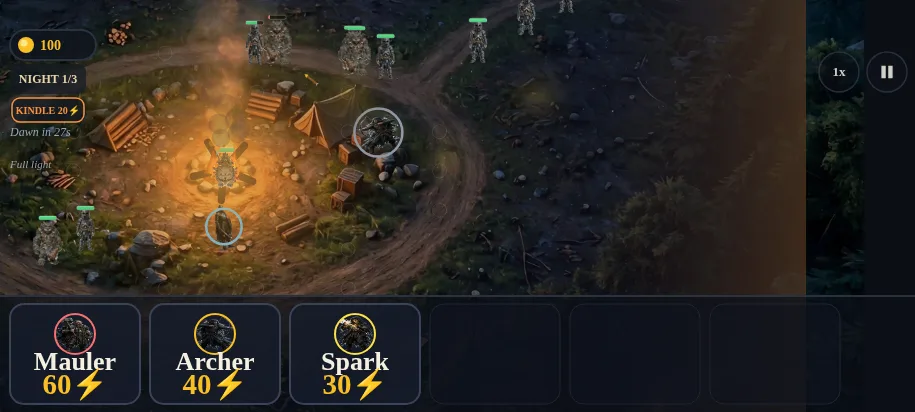
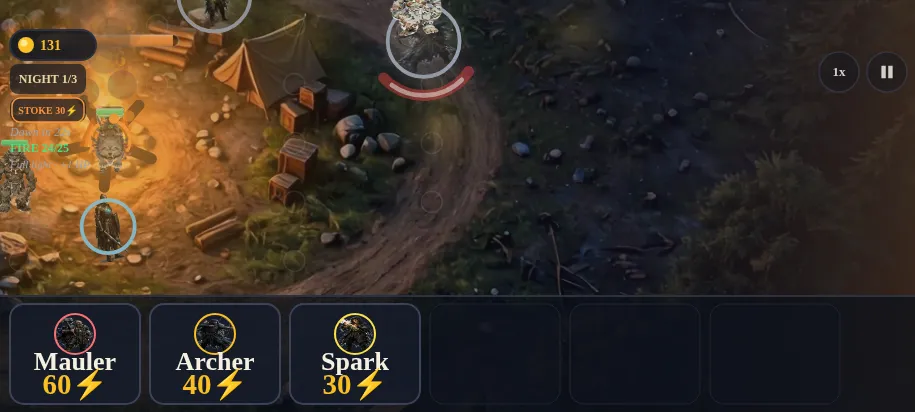
Hollowreign: real L1 + L2 gameplay shots; remove camera pill site-wide
- Top frame: Level 2 (Dark Forest) re-captured at a dense fight moment -
  enemy ON the campfire, Warden + guardians engaged, damage numbers
  visible (first capture read as a quiet camp).
- Bottom frame: saga map replaced with a real Level 1 (Vault Keep)
  wave-1 battle - enemies on the torch-lit road, guardian engaged,
  damage numbers visible. Frame stays portrait: the vault chapter is
  portrait-only in the game (rotate gate), so portrait is the honest
  framing, not a letterbox.
- Dan: no black camera pill on any phone - .phone::after and
  .phone.land::after rules deleted site-wide; all 11 phone frames show
  images edge to edge inside the bezel.
- SPEC.md 3.6 + media budget updated; hr-saga.webp removed.

diff --git a/index.html b/index.html
@@ -132,13 +132,11 @@ h1,h2,h3,.d{font-family:var(--font-d);font-weight:800;letter-spacing:-.03em;line
 .phone:nth-child(2){margin-top:44px}
 .phone img{width:100%;height:100%;object-fit:cover;object-position:top center;border-radius:30px;display:block;background:var(--bg2)}
 .phone video{width:100%;height:100%;object-fit:cover;object-position:top center;border-radius:30px;display:block;background:var(--bg2)}
-.phone::after{content:'';position:absolute;top:23px;left:50%;transform:translateX(-50%);width:96px;height:20px;background:#05070f;border-radius:11px;z-index:2}
 .phone figcaption{position:absolute;left:0;right:0;bottom:-34px;text-align:center;font-size:12.5px;color:var(--mut);letter-spacing:.04em}
 /* landscape phone frame (sideways, for wide gameplay) */
 .phones.stack{flex-direction:column;align-items:center}
 .phone.land{width:min(560px,100%);aspect-ratio:915/412}
 .phone.land img{object-position:center}
-.phone.land::after{top:50%;left:23px;transform:translateY(-50%);width:20px;height:96px}
 /* hollowreign art */
 .keyart{position:relative;border-radius:22px;overflow:hidden;border:1px solid var(--line);box-shadow:var(--shadow)}
 .keyart img{width:100%;height:100%;object-fit:cover;display:block;aspect-ratio:4/4.6;filter:saturate(1.05)}
@@ -341,8 +339,8 @@ footer{border-top:1px solid var(--line);padding:clamp(64px,8vw,110px) 0 40px;pos
           <figcaption>Real gameplay — Level 2, the fire level</figcaption>
         </figure>
         <figure class="phone" data-tilt>
-          <img src="screenshots/hr-saga.webp" alt="Hollowreign saga map — all five chapters beaten, golden route lines across the world" loading="lazy" width="390" height="844">
-          <figcaption>Real gameplay — the saga map</figcaption>
+          <img src="screenshots/hr-level1-battle.webp" alt="Hollowreign Level 1, Vault Keep — guardians holding the torch-lit path against the first wave" loading="lazy" width="412" height="915">
+          <figcaption>Real gameplay — Level 1, Vault Keep</figcaption>
         </figure>
       </div>
     </article>

diff --git a/SPEC.md b/SPEC.md
@@ -83,12 +83,23 @@ product.
    battle in a LANDSCAPE phone frame (.phone.land, 915x412, sideways like
    the battle plays; the .phones stack vertically for this block), Nov 24,
    captured headless from the ship file with the Warden + Mauler/Archer/
-   Spark holding the campfire against the horde; and screenshots/hr-saga.webp
-   — the saga map, all five chapters beaten, Nov 23, portrait frame kept.
-   The modes-screen shot (hr-modes.webp) was replaced Nov 24 — Dan: the two
-   shots were menus, not gameplay. The key art (screenshots/hollowreign-
-   keyart.webp) stays in the repo and is still the OG image, but is no
-   longer on the page.
+   Spark holding the campfire against the horde, an enemy ON the fire and
+   damage numbers visible (re-shot Nov 24 — Dan: the first capture read as
+   a quiet camp, enemies far from the fire); and screenshots/hr-level1-
+   battle.webp — a real Level 1 (Vault Keep) wave-1 battle, Nov 24, enemies
+   on the torch-lit road with HP bars, a guardian engaged and damage
+   numbers (-29/-18/-34) visible. The Level 1 frame stays PORTRAIT: the
+   vault chapter is portrait-only in the game (code-proven rotate gate —
+   landscape shows a rotate screen, waves never play), so a portrait frame
+   is the honest one, not a letterbox. It replaces the saga map (hr-saga.
+   webp, a menu, removed from the repo Nov 24 — Dan: show Level 1 playing,
+   not the map). The modes-screen shot (hr-modes.webp) was replaced Nov 24
+   — Dan: the two shots were menus, not gameplay. Nov 24, Dan: NO black
+   camera pill on any phone frame — the .phone::after and .phone.land::
+   after rules are deleted site-wide; every phone frame (all products)
+   shows its image edge to edge inside the frame bezel. The key art
+   (screenshots/hollowreign-keyart.webp) stays in the repo and is still
+   the OG image, but is no longer on the page.
 7. **#apps — OUTBREAK** (id outbreak): kicker "LIVE NOW ON ROBLOX"; H2
    "OUTBREAK". Copy: zombie survival extraction — cross a massive living
    city, scavenge weapons, fight to the helicopter; die and you respawn as
@@ -268,8 +279,10 @@ right edge. Causes, all fixed and all must stay fixed:
 - Media budget (Nov 24): the eight new visual files total ~630 KB
   (sv-binder 63 KB, sv-scan-result 30 KB, hr-modes 39 KB, hr-saga 88 KB,
   mm-home 69 KB, mm-mission-crop 63 KB, pf-game 64 KB, pf-create 116 KB)
-  plus hr-level2-battle.webp 41 KB (Nov 24, replaces hr-modes.webp on the
-  page — hr-modes stays in the repo) plus two looping clips: otd-loop.mp4 at 1.23 MB and otd-nuremberg.mp4
+  plus hr-level2-battle.webp 35 KB (Nov 24, re-shot — replaces the 41 KB
+  first capture on the page) and hr-level1-battle.webp 37 KB (Nov 24,
+  replaces hr-saga.webp on the page — hr-saga removed from the repo;
+  hr-modes stays in the repo) plus two looping clips: otd-loop.mp4 at 1.23 MB and otd-nuremberg.mp4
   at 0.86 MB (replaced the 67 KB otd-stalingrad.webp still Nov 24 —
   it was a picture captioned as footage). Below-fold images are
   loading="lazy"; the videos are preload="metadata" with posters.
